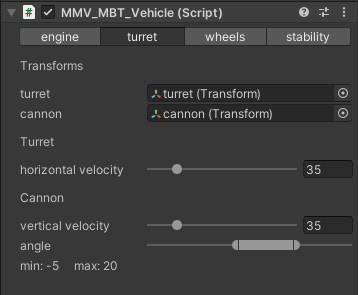
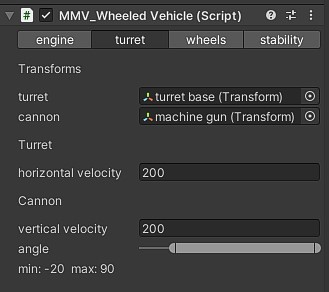
adding suport to wheeled vehicles

diff --git a/source/wheeled_vehicles.rst b/source/wheeled_vehicles.rst
@@ -1,0 +1,110 @@
+Wheeled Vehicle
+===============
+
+Responsible for simulating all types of vehicle that uses wheels.
+
+Vehicle Component
+~~~~~~~~~~~~~~~~~
+
+A vehicle component is composed of some modules, each module controls a specific part as you can 
+see in the image.
+
+.. figure:: images/wheeled_vehicle/vehicle_modules.jpg
+
+Let's explain the vehicle component separated by modules.
+
+Engine
+------
+
+Module responsible for all parts of the vehicle's power, movement, engine sound and braking system.
+
+.. figure:: images/wheeled_vehicle/engine.jpg
+
+**Engine Settings:** :ref:`configuration file <engine settings>` containing all engine parameters
+
+Engine Sound
+............
+
+.. figure:: images/tracked_vehicle/engine_sound.jpg
+
+Control the sound of the vehicle's engine.
+
+**audio source:** Any audio source that is in the vehicle that can be used to 
+reproduce the sound of the engine.
+
+**audio clip:** Your engine's audio clip.
+
+**min pitch:** The lowest pitch that the engine sound can reach if it's not accelerating.
+
+**max pitch:** The maximum pitch that the engine sound can reach when accelerating.
+
+Turret
+------
+
+.. figure:: images/advanced_configurations/vehicle/vehicle_turret.jpg
+
+This module is responsible for controlling the turret and aiming the vehicle.
+
+Transforms
+..........
+
+.. figure:: images/wheeled_vehicle/transforms.jpg
+
+**turret:** Vehicle weapon system turret.
+
+**cannon:** Cannon that is connected to the vehicle's turret.
+
+**horizontal velocity:** The speed at which the turret flips horizontally towards the target.
+**vertical velocity:** The speed at which the cannon turns vertically towards the target.
+
+Wheels
+------
+
+.. figure:: images/wheeled_vehicle/wheels.jpg
+
+The wheel module manages all of the vehicle's wheels, applies suspension physics and tells them 
+when to accelerate, brake and steer.
+
+
+**settings:** :ref:`Configuration file <wheel settings>` that contains all the parameters for suspension and behavior of the vehicle's wheels
+
+Left/Right Wheels
+.................
+
+Add your vehicle's wheels here.
+
+.. figure:: images/wheeled_vehicle/wheels_wheels.jpg
+
+**Collider:** empty object for wheel position
+
+**Mesh:** Wheel model
+
+**Accelerate:** If the wheel is able to use the acceleration force
+
+**Brake:** If the wheel is able to brake
+
+**Steer Angle:** How far can this wheel turn
+
+Wheels Particles
+................
+
+Add a particle to each of your wheels so that when the vehicle is driven, dust can come out of the wheels.
+
+.. figure:: images/wheeled_vehicle/wheel_particles.jpg
+
+**Emission intensity:** The intensity of particles that will be instantiated at vehicle speed
+
+**Left/Right wheels:** particle from each of your wheels
+
+
+Stability
+---------
+
+Control vehicle stability.
+
+.. figure:: images/advanced_configurations/vehicle/vehicle_stability.jpg
+
+**Angle deceleration:** how much gravity influences the vehicle when going uphill or steep places.
+
+**center of mass:** The vehicle's center of mass, recommended to leave in the center, the higher on the Y axis, 
+the easier it will be for the vehicle to tip over in curves.

diff --git a/source/another_systems.rst b/source/another_systems.rst
@@ -39,11 +39,11 @@ Describe all main shooting behavior.
 Effects
 -------
 
-.. figure:: images/advanced_configurations/shooter_manager/shooter_manager_effects.jpg
+.. figure:: images/another_systems/shooter_effects.jpg
 
-Applies effects when firing.
+Instantiates objects when a projectile is instantiated.
 
-**Particles:** Particles that will be instantiated when it fires.
+**Spawn on shot:** Objects that must be created, such as particles
 
 Sound
 -----
@@ -82,6 +82,8 @@ and mouse and gamepad.
 
 **change camera key:** The key or button to switch between cameras if you have more than one.
 
+**axis sensitivity:** Camera movement sensitivity
+
 Camera Behaviour
 ----------------
 
@@ -96,7 +98,7 @@ Describe how the camera should behave.
 types
 -----
 
-Game cameras.
+Game cameras
 .............
 
 .. figure:: images/advanced_configurations/camera_controller/standart_camera_controller_types.jpg
@@ -123,7 +125,10 @@ __________
     .. figure:: images/advanced_configurations/camera_controller/standart_camera_controller_camera_types_demo.jpg
 
 **min vertical:** The minimum angle to the vertical.
+
 **max vertical:** The maximum angle vertically.
+
+**align to vehicle:** Aligns the Y axis of the camera with that of the vehicle, by default it is already activated in FIRST_PERSON mode.
 
 Options for FIRST_PERSON
 ^^^^^^^^^^^^^^^^^^^^^^^^
@@ -136,7 +141,5 @@ Options for THIRD_PERSON
 **camera height:** The height of the camera relative to the vehicle.
 
 **camera distance:** The distance of the camera from the vehicle
-
-**align to vehicle:** Aligns the Y axis of the camera with that of the vehicle, by default it is already activated in FIRST_PERSON mode.
 
 **camera collision:** Camera collision sensor, prevents it from entering walls, add here the collision layers of your scene, by default the layer is *“Default”*.

diff --git a/source/index.rst b/source/index.rst
@@ -21,6 +21,7 @@ Below you will see all the **MMV** documentation separated by themes, enjoy:
     introduction
     overview
     tracked_vehicles
+    wheeled_vehicles
     configuration_files
     another_systems
     custom_controllers
